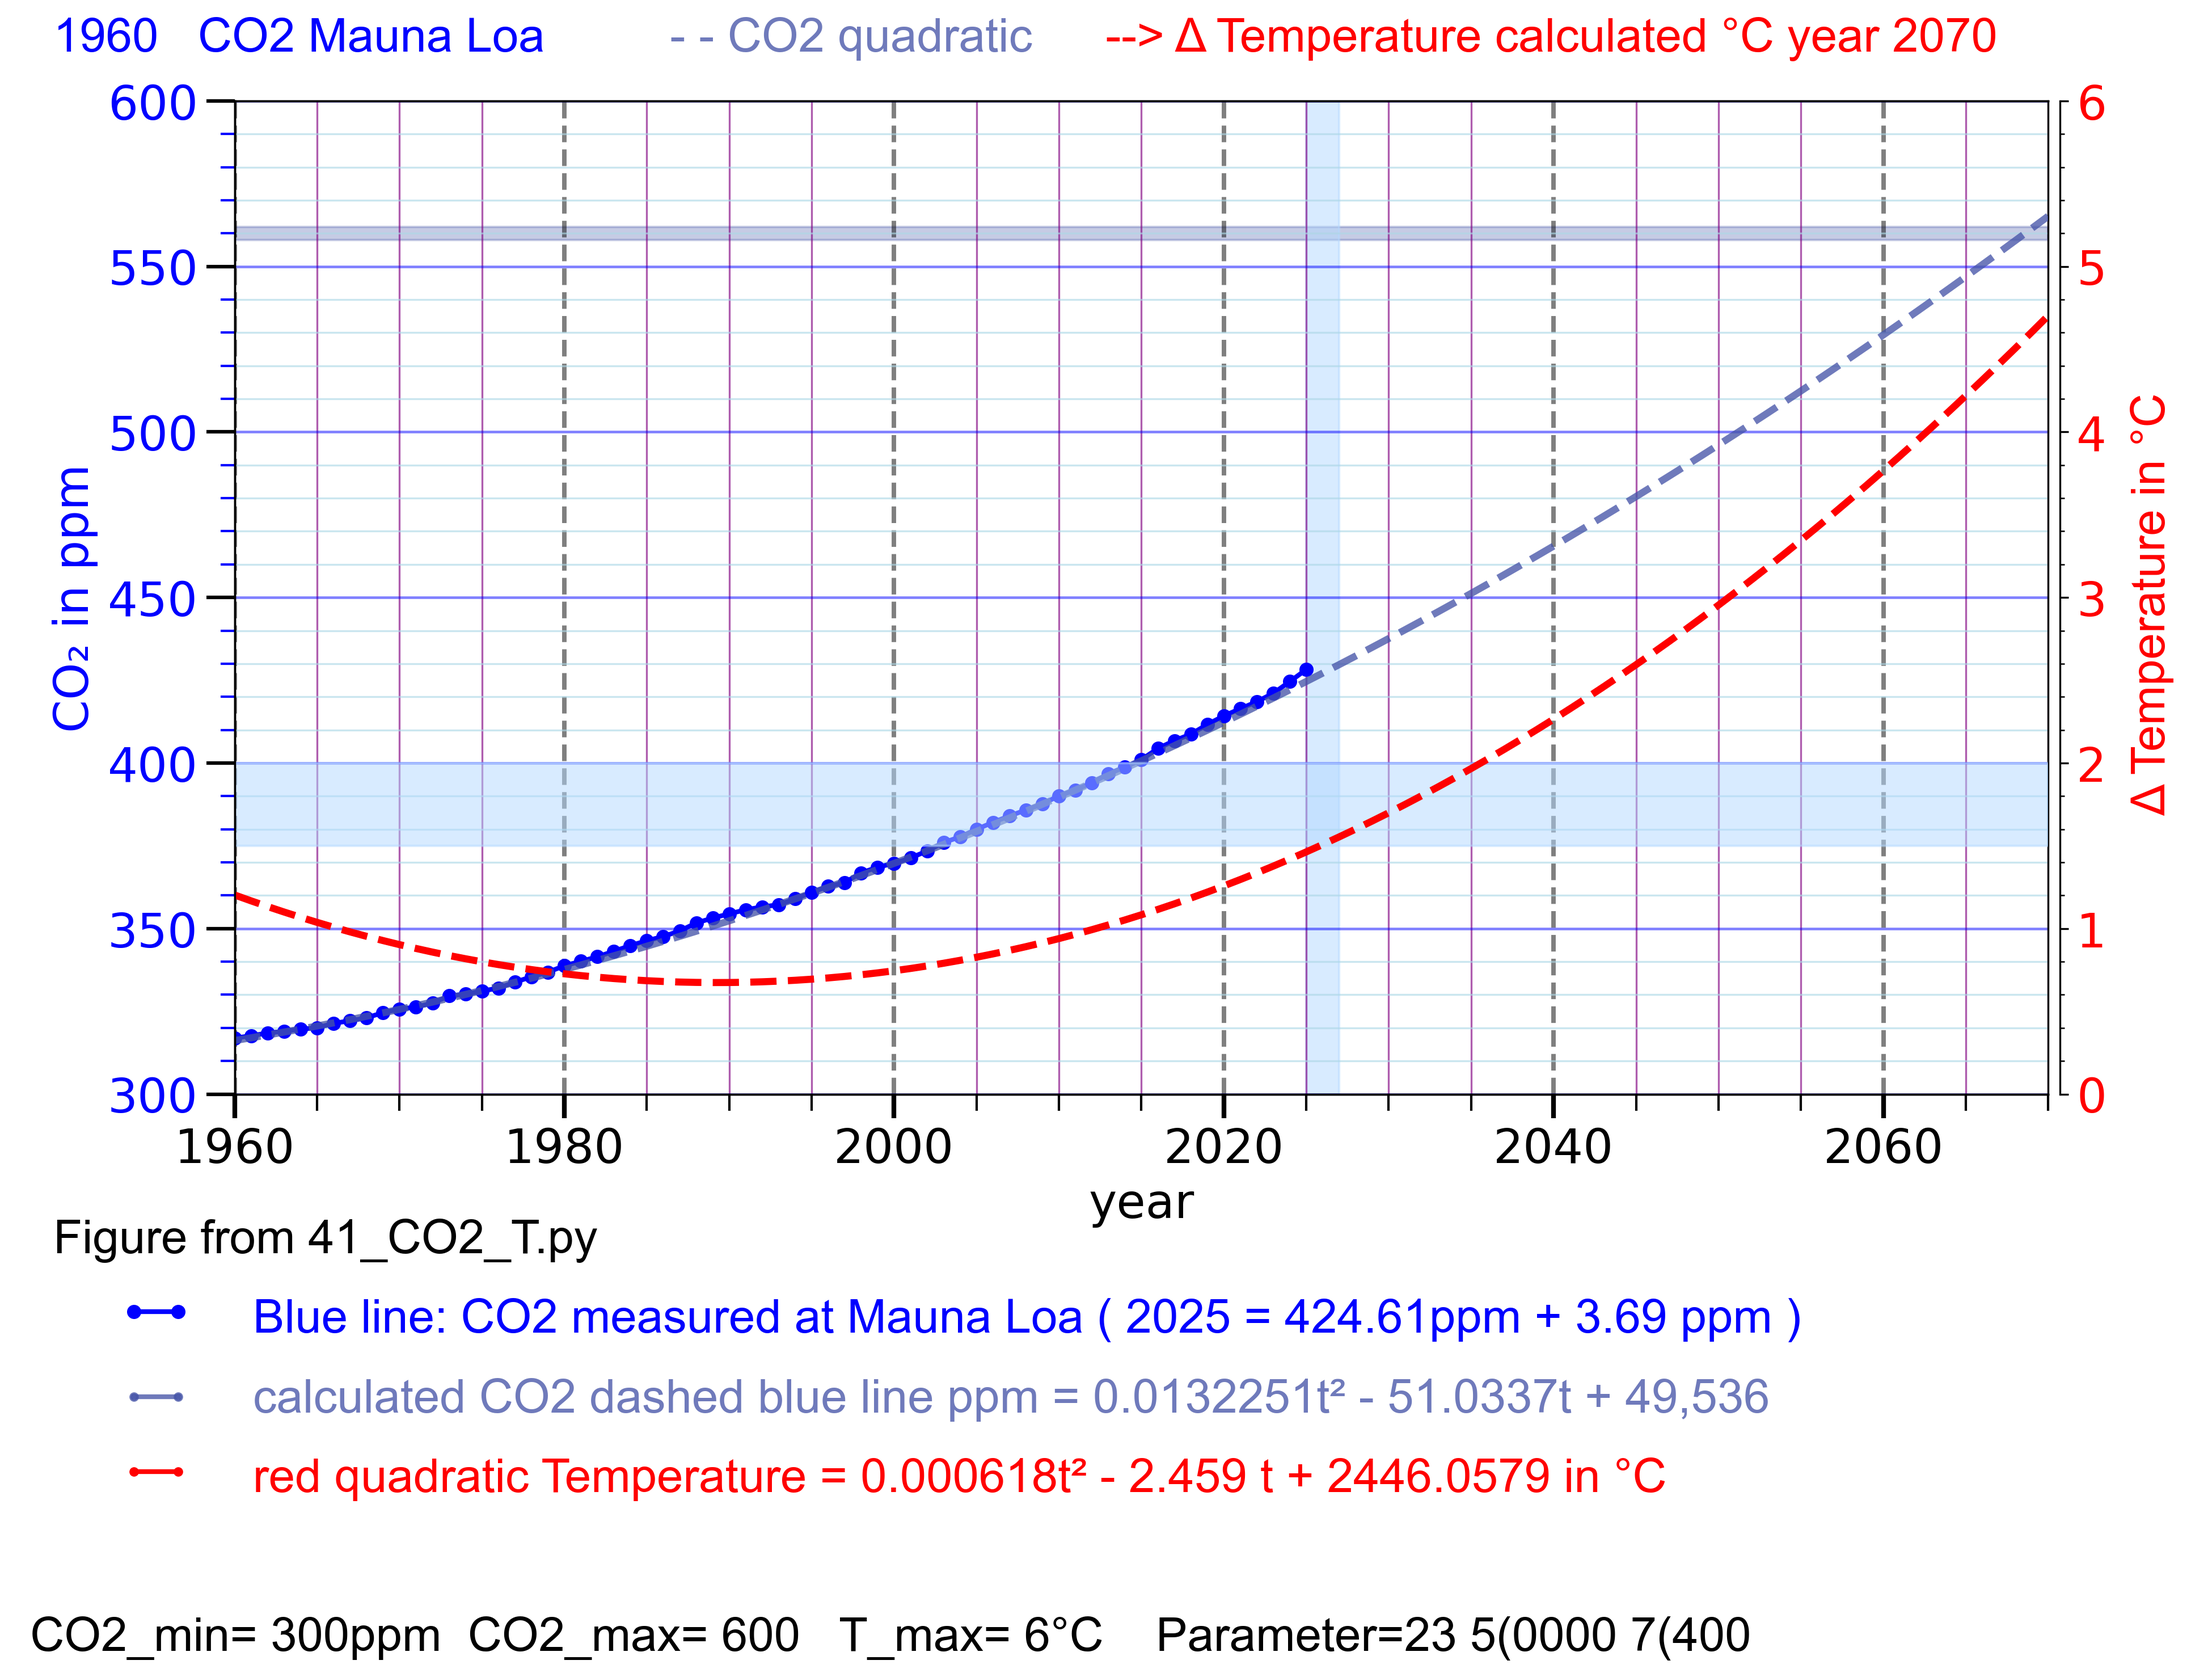
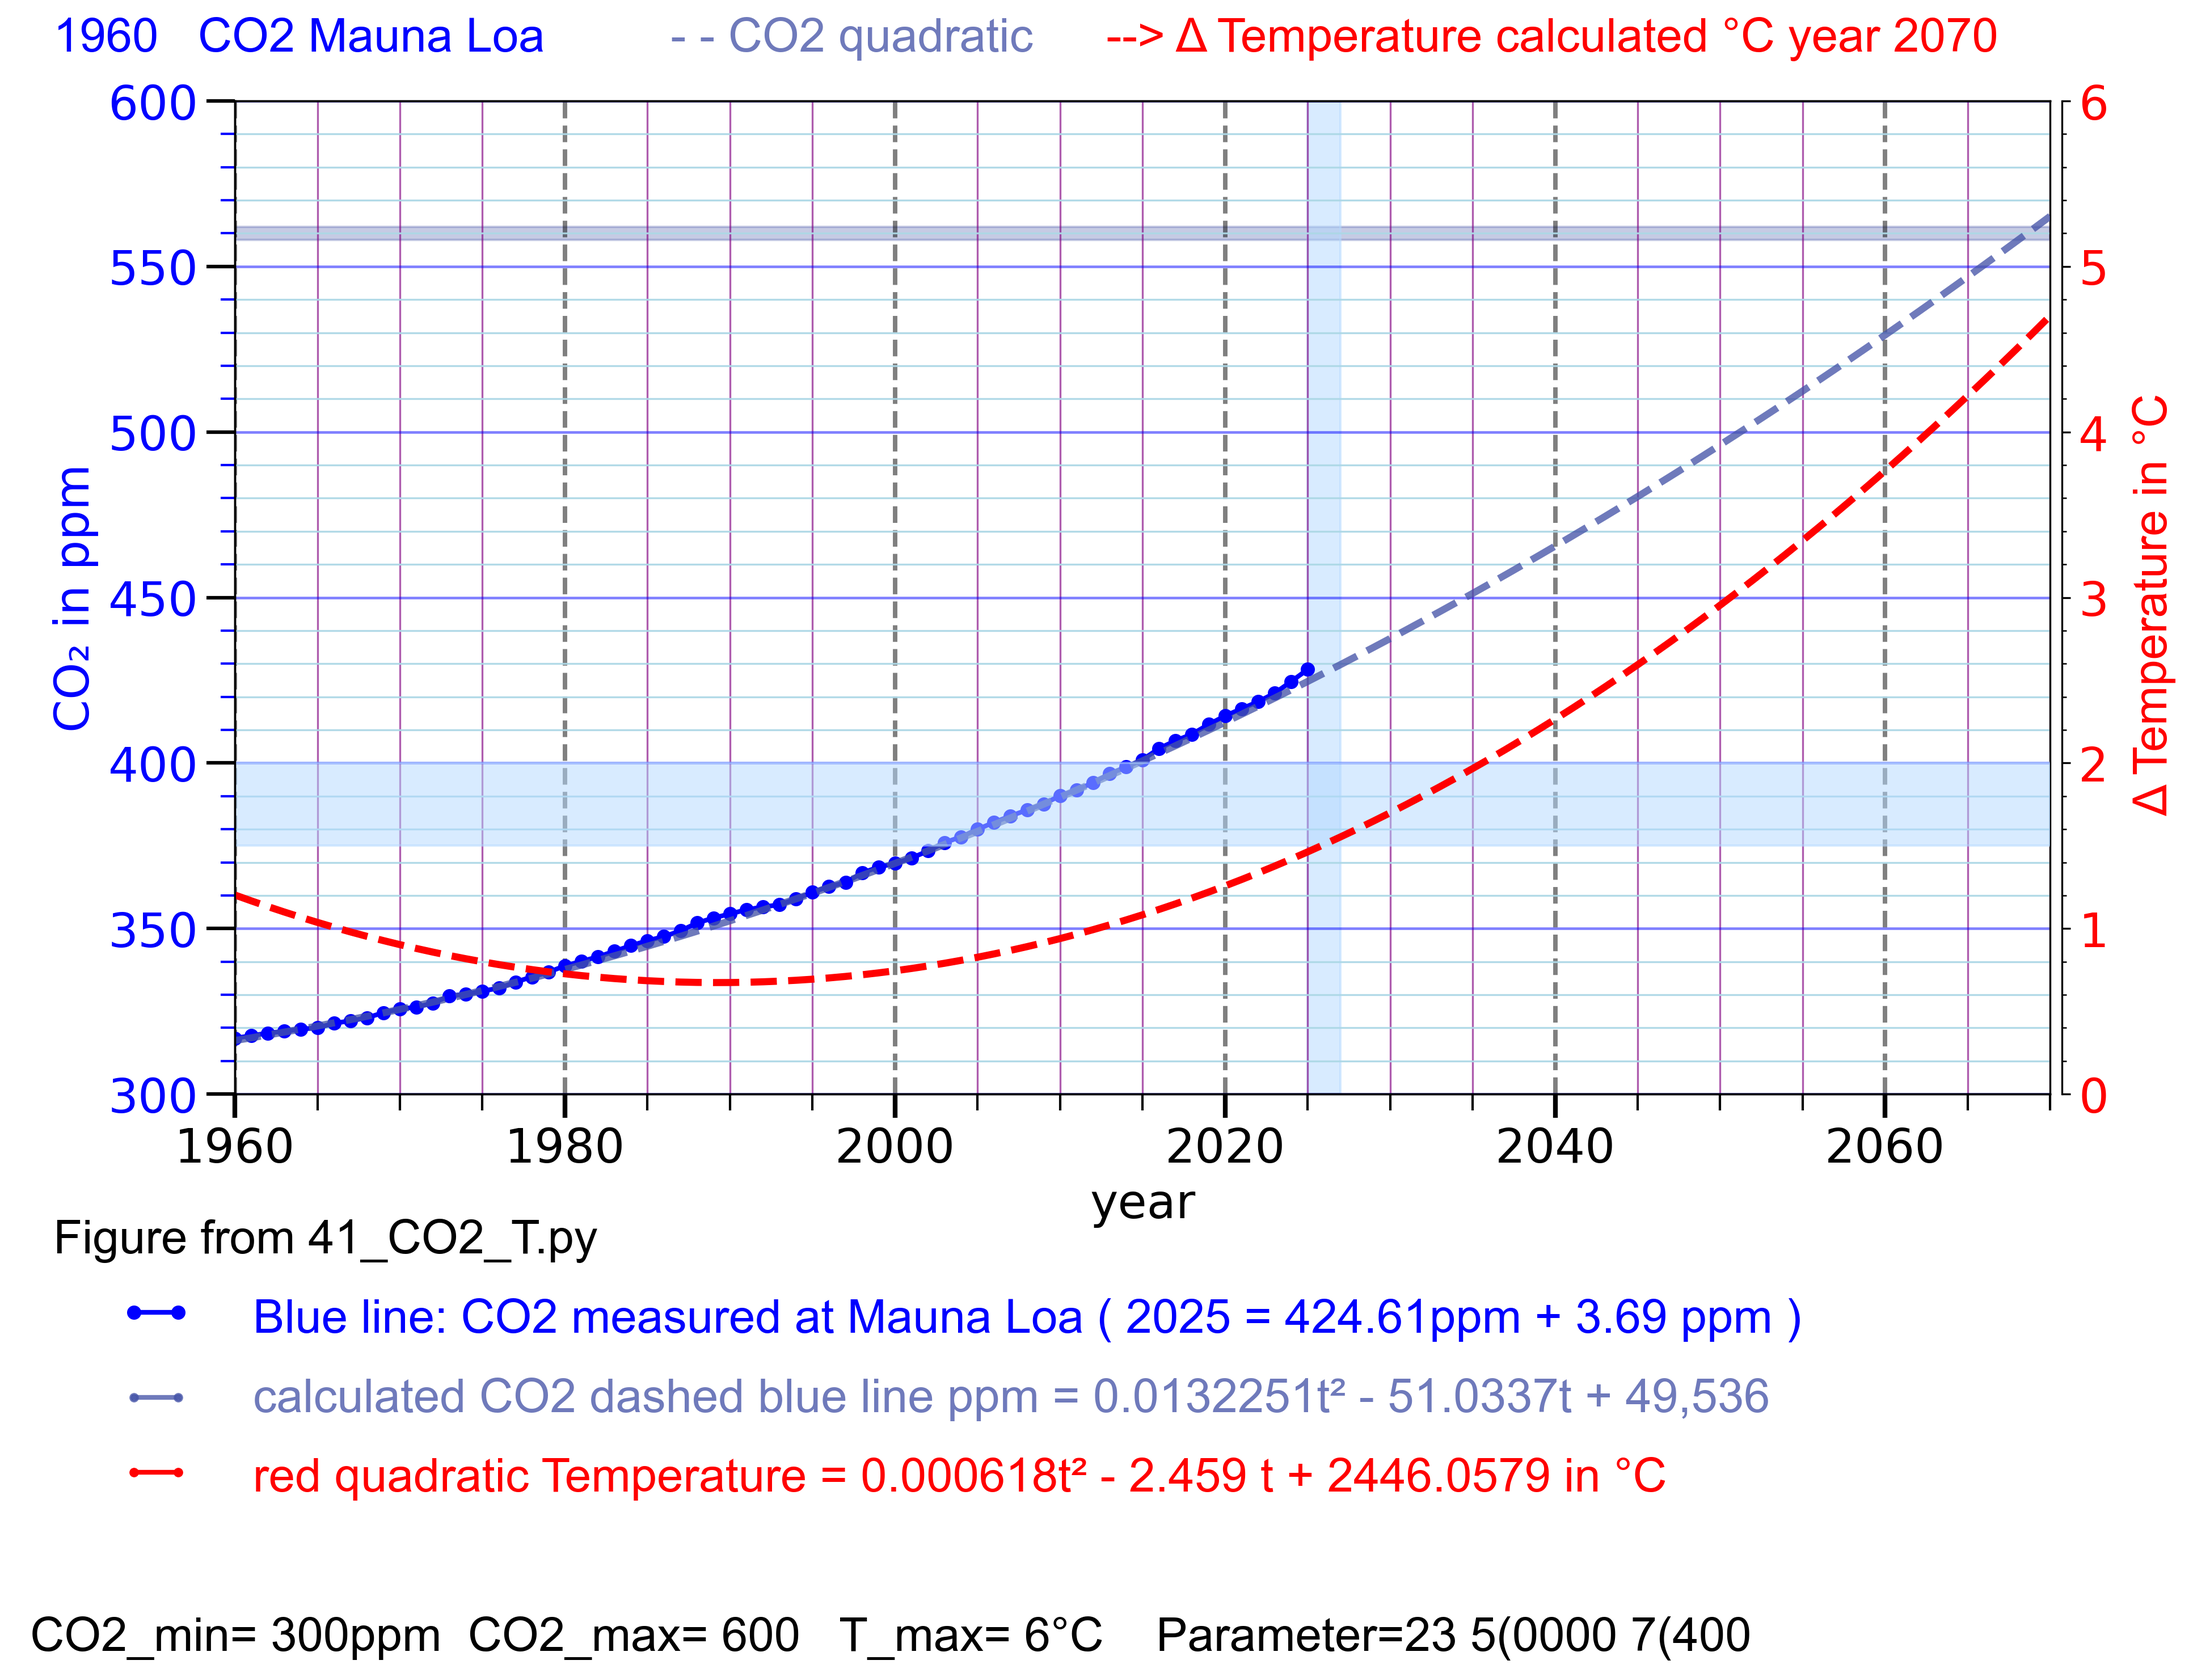
41t4_CO2_T.py part 8 axis lines

diff --git a/41_CO2_T.py b/41_CO2_T.py
@@ -1,4 +1,4 @@
-# 41t2_CO2_T.py part 8.2 grids
+# 41t4_CO2_T.py part 8 axis lines
 # Thomas Boettcher
 # part 1 configure 
 # part 2 plot CO2 Mauna Loa
@@ -534,15 +534,20 @@ if plot73_ECS_T > 0:
    )
 
 # part 8
-# 8.1 plot
+# 8.1 scale the plot area
 # 8.2 print the headline above the plot
 # 8.3 print the left y axis 
 # 8.4 print the vertical lines CO2=constant
 # 8.5 print the x axis 
 # 8.6 print the horizontal lines year 2026
 
-# 8.1 plot
+# 8.1 scale the plot area
+# 8.1.2 scale the x axis
 plt.xlim(x_anf, x_end)
+# 8.1.3 scale the Y axis
+ax1.set_ylim(y_min, y_max)
+# 8.1.4 enable grid
+ax1.grid(True)
 
 # 8.2 print the headline above the plot
 # 8.2.1 blue headline part
@@ -566,23 +571,19 @@ else:
    # 8.2.8 plot the headline
    plt.text(-0.1, 1.05, header, color="black", fontname="Arial", fontsize=18,
             transform=plt.gca().transAxes)
+            # end 8.2
 
 # 8.3 print the left y axis 
 # 8.3.1 write "CO₂ in ppm" left Axis upwards
 ax1.set_ylabel("CO₂ in ppm", color=c1, fontsize=20) # y achse links
 # 8.3.2 write the numbers left of plot field
 ax1.tick_params(axis="y", labelcolor=c1, labelsize=20) # Achsenbeschriftung
-# 8.3.3 scale the Y axis
-ax1.set_ylim(y_min, y_max)
-ax1.grid(True)
-# 8.3.4 scale the Y axis 50ppm main items
+# 8.3.3 scale the Y axis 50ppm main items
 ax1.yaxis.set_major_locator(MultipleLocator(y_mayor_ticks))   # 50 Hauptstriche
 ax1.tick_params(axis='y', which='major', length=12, width=1.5)
-# 8.3.5 scale the Y axis 10ppm minor items
+# 8.3.4 scale the Y axis 10ppm minor items
 ax1.yaxis.set_minor_locator(MultipleLocator(y_minor_ticks))   # 10 Nebenstriche
 ax1.tick_params(axis='y', which='minor', length=6,  width=1, color='blue')
-
-
 
 # 8.4 print the vertical lines CO2=constant
 # 8.4.1 horizontal line at 1120 ppm
@@ -598,7 +599,6 @@ for line in ax1.get_ygridlines():    # horizontal lines
 # 8.4.4 horizontal minor grid all 10ppm
 ax1.grid(True, which="minor", axis="y", color="lightblue", alpha=0.94)   # horizontal
 
-
 # 8.5 print the x axis 
 # 8.5.1 print year below the year numbers 
 ax1.set_xlabel("year", fontsize=20 )
@@ -610,20 +610,19 @@ ax1.tick_params(axis='x', which='major', length=10, width=2) # all 20 years
 # 8.5.3 scale the x axis minor 5 years
 ax1.xaxis.set_minor_locator(MultipleLocator(x_minor_ticks))   # no work
 ax1.tick_params(axis='x', which='minor', length=7,  width=1)
-# 8.5.4 vertical minorlines all 5 years        
-ax1.grid(True, which="minor", axis="x", color="purple", alpha=0.64)   # work vertical 5 years
   
 # 8.6 print the horizontal lines year 2026
-# 8.6.3 vertical line at year 2026
-ax1.axvspan(2025, 2027, color="#B3D9FF", alpha=0.5, zorder=0) # vertical bar'
-# 8.6.4 vertical major grid all 20 years
+# 8.6.1 vertical major grid all 20 years
 for line in ax1.get_xgridlines():   # vertical lines
        line.set_color('black')          # vertical color
        line.set_alpha(0.5)
        line.set_linestyle('--')        # optional '--'
        line.set_linewidth(1.9)   # <-- thickness
+# 8.6.2 vertical minorlines all 5 years        
+ax1.grid(True, which="minor", axis="x", color="purple", alpha=0.64)   # work vertical 5 years
+# 8.6.3 vertical line at year 2026
+ax1.axvspan(2025, 2027, color="#B3D9FF", alpha=0.5, zorder=0) # vertical bar'
 # end part 8
-
 
 
 # 9 part 9 print information below the plot field
